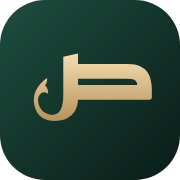
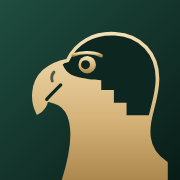
Replace the letter mark with a falcon whose hood ends in falling price steps
Claude-Session: https://claude.ai/code/session_01JmETFraTUeYAcq8FDr245u

diff --git a/web/index.html b/web/index.html
@@ -22,9 +22,10 @@
     <linearGradient id="g-tile" x1="0" y1="0" x2="1" y2="1"><stop offset="0" stop-color="#1f4d3f"/><stop offset=".55" stop-color="#0f2b24"/><stop offset="1" stop-color="#081a15"/></linearGradient>
     <linearGradient id="g-gold" x1="0" y1="0" x2="0" y2="1"><stop offset="0" stop-color="#f3e0b5"/><stop offset=".5" stop-color="#d6b47a"/><stop offset="1" stop-color="#a8844a"/></linearGradient>
     <symbol id="i-mark" viewBox="0 0 64 64">
+      <!-- صقر: القلنسوة الداكنة تنتهي تحت العين بدرجات سعر نازلة -->
+      <clipPath id="c-mark"><rect width="64" height="64" rx="17"/></clipPath>
       <rect width="64" height="64" rx="17" fill="url(#g-tile)"/>
-      <rect x="3.5" y="3.5" width="57" height="57" rx="14" fill="none" stroke="url(#g-gold)" stroke-opacity=".5"/>
-      <path fill="url(#g-gold)" transform="translate(11.06 35.50) scale(0.03750)" d="M305 -240V-409L445 -440V-240ZM216 200Q155 200 117.0 178.0Q79 156 59.0 123.0Q39 90 32.0 56.5Q25 23 25 0Q25 -44 43.5 -84.0Q62 -124 91.0 -155.5Q120 -187 151 -207Q153 -188 149.0 -171.0Q145 -154 131 -135Q142 -130 149.5 -115.5Q157 -101 160.0 -85.0Q163 -69 160 -57Q144 -72 128.0 -72.5Q112 -73 98 -64Q84 -54 75.0 -39.5Q66 -25 66 1Q66 40 84.0 72.0Q102 104 132.0 123.5Q162 143 198 143Q237 143 260.5 120.5Q284 98 294.5 56.5Q305 15 305 -40V-309L445 -340V0Q445 56 419.0 101.5Q393 147 342.5 173.5Q292 200 216 200ZM390 0V-140H1005Q1006 -167 988.5 -183.5Q971 -200 915 -200H390V-340H915Q989 -340 1034.0 -319.0Q1079 -298 1102.5 -263.0Q1126 -228 1135.0 -186.0Q1144 -144 1144.5 -101.5Q1145 -59 1145 -23Q1145 -11 1135.0 -6.0Q1125 -1 1115.0 -0.5Q1105 0 1105 0Z"/>
+      <g clip-path="url(#c-mark)"><path fill="url(#g-gold)" d="M24 21.5C27 15 33.5 11.5 41 12C50 12.5 56 19 56 28C56 36 52 42 53 49C53.5 53 56 56 59 58V66H22C25 57 27 47 24.5 41C23.5 38.6 21.8 37 19.6 36.3L16.6 35.4C16.2 37.4 15.2 39 13.4 40C11.4 36 11.2 29.6 15.6 25.4C18 23.2 20.8 22.1 24 21.5Z"/><path fill="#0d2620" d="M24 21.5C27 15 33.5 11.5 41 12C50 12.5 56 19 56 28C56 33 54.6 37 53.6 41H45V36.5H40.5V32H36V28.5C33.5 28.5 30 28 26.8 27.1C24.8 26.5 23.2 25.2 22.3 22.9Z"/><path fill="none" stroke="url(#g-gold)" stroke-width="1.3" d="M24 21.5C27 15 33.5 11.5 41 12C50 12.5 56 19 56 28C56 36 52 42 53 49C53.5 53 56 56 59 58V66H22C25 57 27 47 24.5 41C23.5 38.6 21.8 37 19.6 36.3L16.6 35.4C16.2 37.4 15.2 39 13.4 40C11.4 36 11.2 29.6 15.6 25.4C18 23.2 20.8 22.1 24 21.5Z"/><circle cx="31" cy="23" r="3.1" fill="url(#g-gold)"/><circle cx="30.4" cy="23" r="1.6" fill="#0d2620"/><path d="M26 19.6C29 18.4 33 18.4 36 19.8" fill="none" stroke="url(#g-gold)" stroke-width="1.2" stroke-linecap="round"/><path d="M16.6 35.3C18.4 33.4 20 31.8 21.6 30.2" fill="none" stroke="#0d2620" stroke-width="1.15" stroke-linecap="round"/><path d="M19.2 25.6C18.4 26.6 18.2 27.8 18.6 28.8" fill="none" stroke="#0d2620" stroke-width="1" stroke-linecap="round" opacity=".7"/></g>
     </symbol>
     <symbol id="i-word" viewBox="20 -470 2120 690">
       <path d="M25 0 109 -140H680Q681 -167 663.5 -183.5Q646 -200 590 -200H135L291 -460L301 -453L249 -340H590Q656 -340 698.5 -323.0Q741 -306 766.0 -277.5Q791 -249 802.5 -213.5Q814 -178 817 -140H940V0ZM1089 208Q1065 208 1048.0 191.0Q1031 174 1031 150Q1031 126 1048.0 109.0Q1065 92 1089 92Q1113 92 1130.0 109.0Q1147 126 1147 150Q1147 174 1130.0 191.0Q1113 208 1089 208ZM916 208Q892 208 875.0 191.0Q858 174 858 150Q858 126 875.0 109.0Q892 92 916 92Q940 92 957.0 109.0Q974 126 974 150Q974 174 957.0 191.0Q940 208 916 208ZM1020 0V-140H1240V0ZM900 0V-140H980V-309L1120 -340V-23Q1120 -11 1110.0 -6.0Q1100 -1 1090.0 -0.5Q1080 0 1080 0ZM1295 -50V-409L1435 -440V-50ZM1200 0V-140H1475V0ZM1380 0V-140H1995Q1996 -167 1978.5 -183.5Q1961 -200 1905 -200H1380V-340H1905Q1979 -340 2024.0 -319.0Q2069 -298 2092.5 -263.0Q2116 -228 2125.0 -186.0Q2134 -144 2134.5 -101.5Q2135 -59 2135 -23Q2135 -11 2125.0 -6.0Q2115 -1 2105.0 -0.5Q2095 0 2095 0Z"/>
